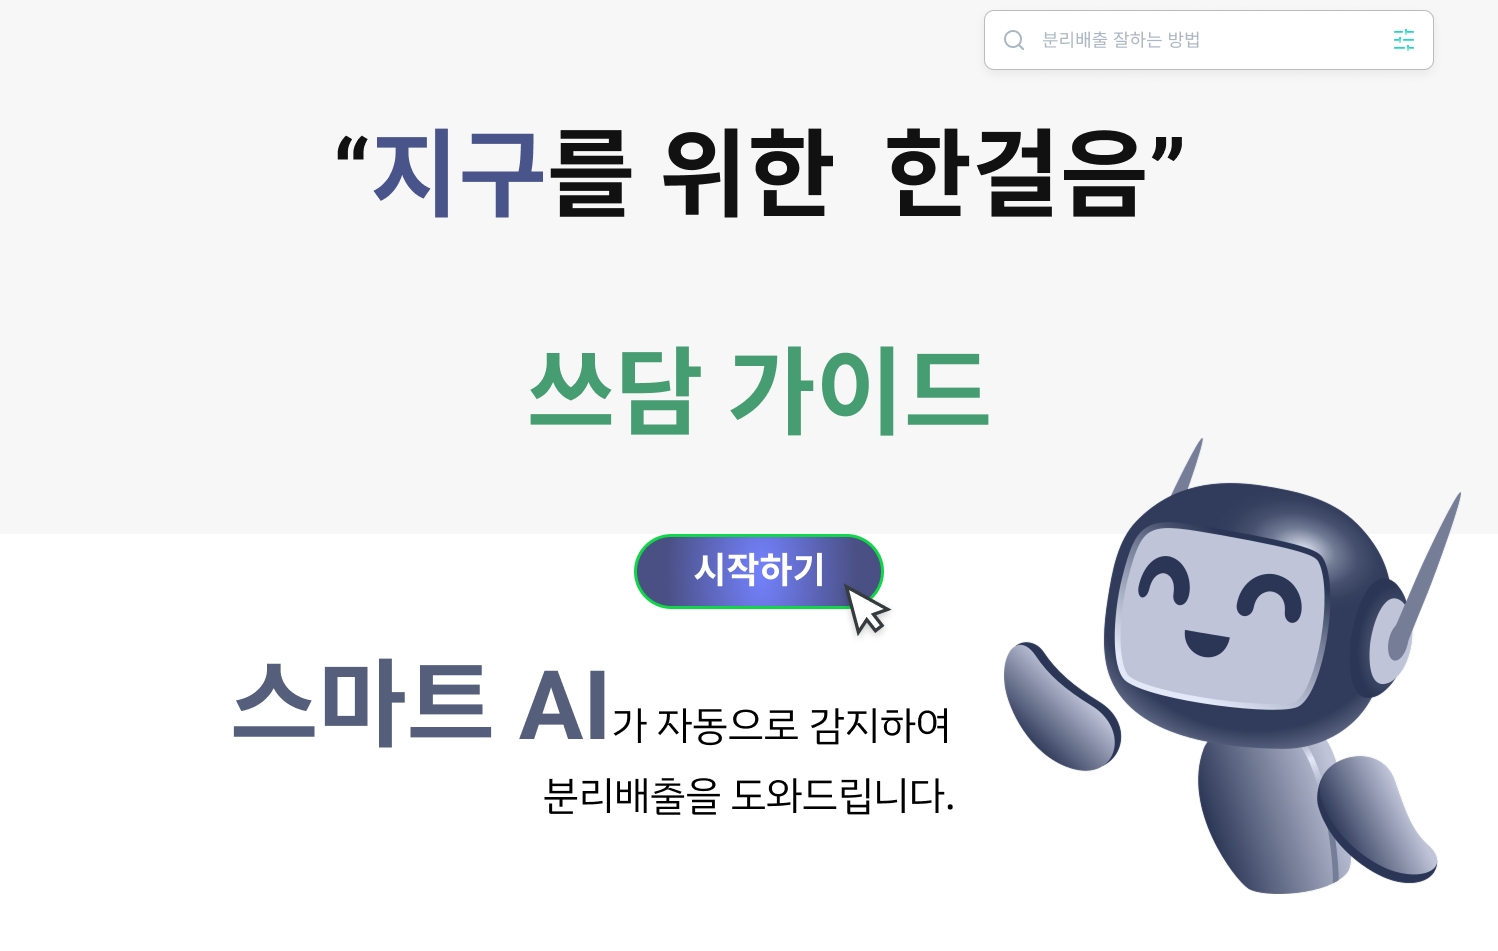
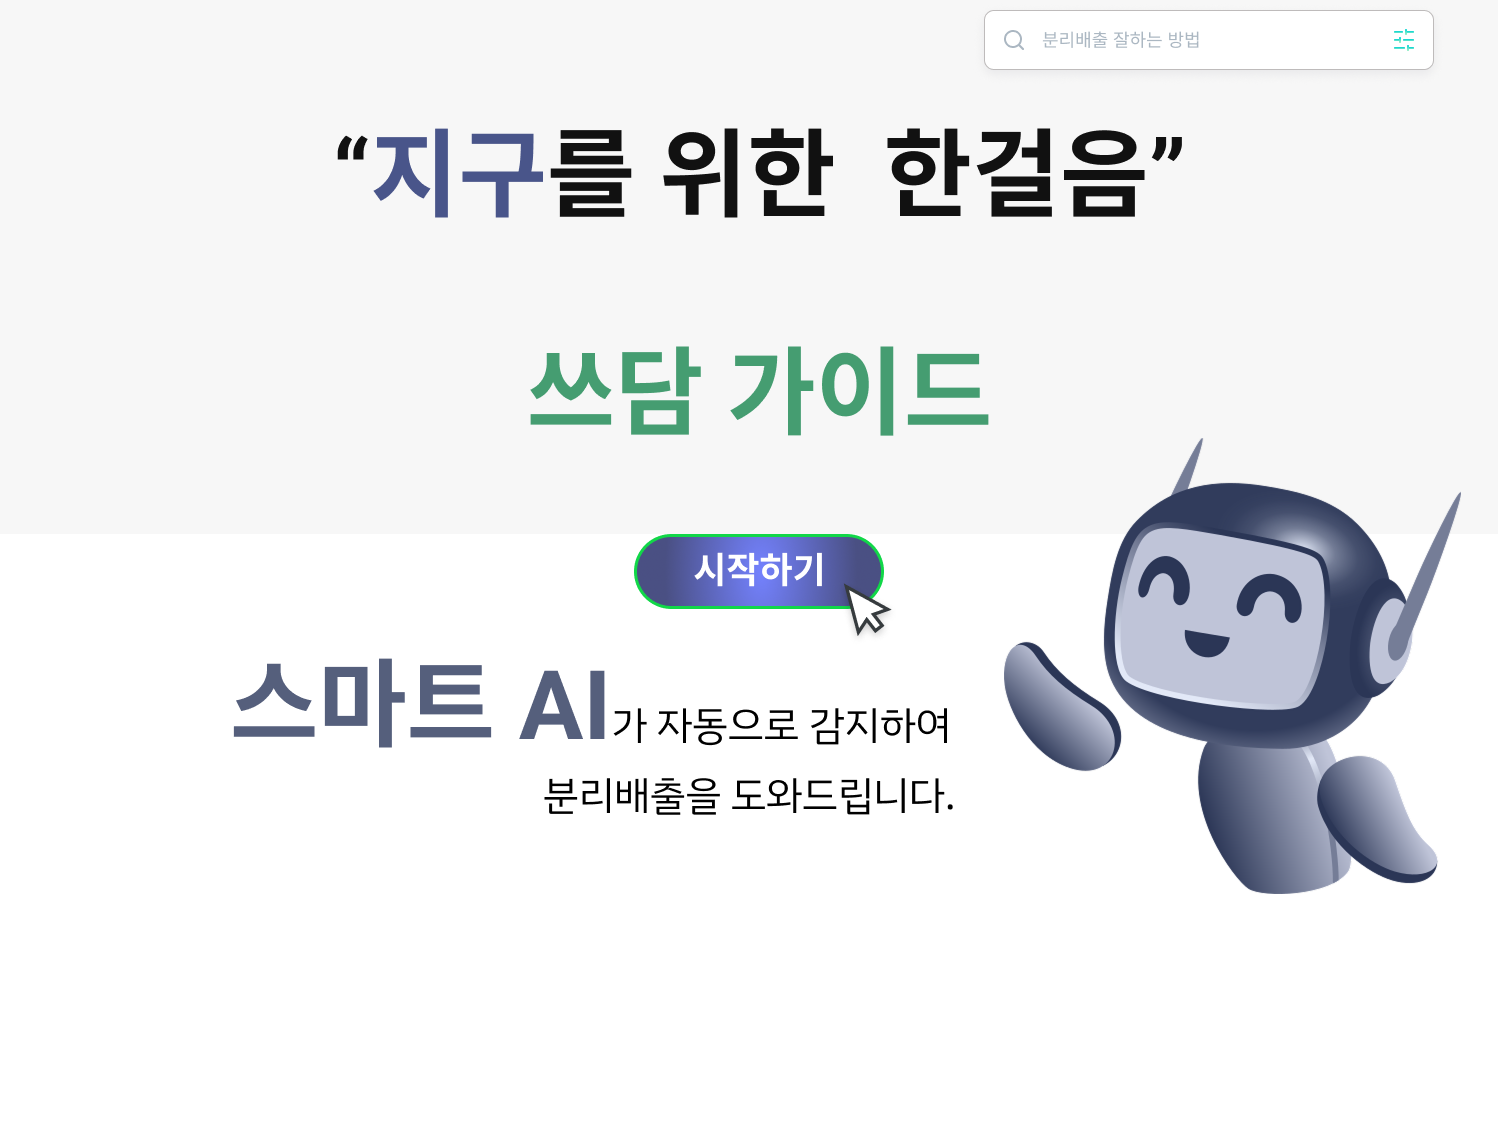
Design: 가이드 페이지 버튼 개선 1. '재질별 분리배출'을 눌러도 해당 섹션으로 안가던 버그를 수정 2. 버튼 위치 개선

diff --git a/src/main/frontend/src/components/guide/GuidePage.tsx b/src/main/frontend/src/components/guide/GuidePage.tsx
@@ -60,6 +60,14 @@ export function GuidePage() {
     window.scrollBy({ top: window.innerHeight * 1.48, behavior: 'smooth' })
   }
 
+  // 새로운 함수: 재질별 분리배출 가이드 섹션으로 스크롤
+  const scrollToGuide = () => {
+    const guideSection = document.getElementById("guide-section")
+    if (guideSection) {
+      guideSection.scrollIntoView({ behavior: 'smooth' })
+    }
+  }
+
   return (
     <div className="relative min-h-screen">
       {/* 🔹 배경 애니메이션 */}
@@ -74,7 +82,6 @@ export function GuidePage() {
           ← 뒤로 가기
         </button>
       </div>
-
 
       {/* 🔹 이미지 섹션 */}
       <div className="flex flex-col items-center justify-center relative z-50 pt-16">
@@ -99,12 +106,12 @@ export function GuidePage() {
               }}
             />
 
-            {/* 📍 아래로 스크롤 화살표 + 좌우 버튼 (첫 이미지에만) */}
+            {/* 📍 아래로 스크롤 화살표 및 좌우 버튼 (첫 이미지에만) */}
             {index === 0 && (
-              <div className="absolute top-[90%] left-[47%] transform -translate-x-1/2 flex items-center space-x-6">
-                {/* 📌 왼쪽 버튼: 재질별 분리배출 방법 */}
+              <div className="absolute top-[80%] left-[47%] transform -translate-x-1/2 flex items-center space-x-6">
+                {/* 왼쪽 버튼: 재질별 분리배출 방법 → 스크롤 이동 */}
                 <motion.button
-                  onClick={() => window.scrollBy({ top: window.innerHeight * 1.5, behavior: 'smooth' })}
+                  onClick={scrollToGuide}
                   whileHover={{ scale: 1.05 }}
                   whileTap={{ scale: 0.95 }}
                   className="bg-green-600 text-white px-4 py-2 rounded-lg shadow-md hover:bg-green-700 transition"
@@ -112,12 +119,12 @@ export function GuidePage() {
                   재질별 분리배출 방법
                 </motion.button>
 
-                {/* 📍 기존 스크롤 애니메이션 */}
+                {/* 기존 스크롤 화살표 */}
                 <motion.div
                   initial={{ opacity: 0 }}
                   animate={{ opacity: 1, y: [0, 10, 0] }}
                   transition={{ repeat: Infinity, duration: 2 }}
-                  className="absolute top-[100%] left-[45%] transform -translate-x-1/2 flex flex-col items-center cursor-pointer"
+                  className="absolute top-[140%] left-[45%] transform -translate-x-1/2 flex flex-col items-center cursor-pointer"
                   onClick={scrollDown}
                 >
                   <p className="text-black text-sm mb-2">아래로 스크롤하세요</p>
@@ -132,7 +139,7 @@ export function GuidePage() {
                   </svg>
                 </motion.div>
 
-                {/* 📌 오른쪽 버튼: 3D 모델로 분리배출 알아보기 (주석 처리) */}
+                {/* 오른쪽 버튼 (비활성) */}
                 <motion.button
                   disabled
                   whileHover={{ scale: 1.05 }}
@@ -140,24 +147,12 @@ export function GuidePage() {
                 >
                   3D 모델로 분리배출 알아보기
                 </motion.button>
-
-                {/* 🔍 TODO: 3D 모델 기능 추가 시 아래 코드 활성화 */}
-                {/* 
-                <motion.button
-                  onClick={() => window.scrollBy({ top: window.innerHeight * 3, behavior: 'smooth' })}
-                  whileHover={{ scale: 1.05 }}
-                  whileTap={{ scale: 0.95 }}
-                  className="bg-blue-600 text-white px-4 py-2 rounded-lg shadow-md hover:bg-blue-700 transition"
-                >
-                  3D 모델로 분리배출 알아보기
-                </motion.button>
-                */}
               </div>
             )}
           </section>
         ))}
 
-        {/* 🔹 재질별 분리배출 가이드 */}
+        {/* 🔹 재질별 분리배출 가이드 섹션 */}
         <section id="guide-section" className="w-full flex justify-center items-center relative">
           <motion.div
             className="w-full max-w-5xl bg-white shadow-xl p-6 rounded-lg z-50"
